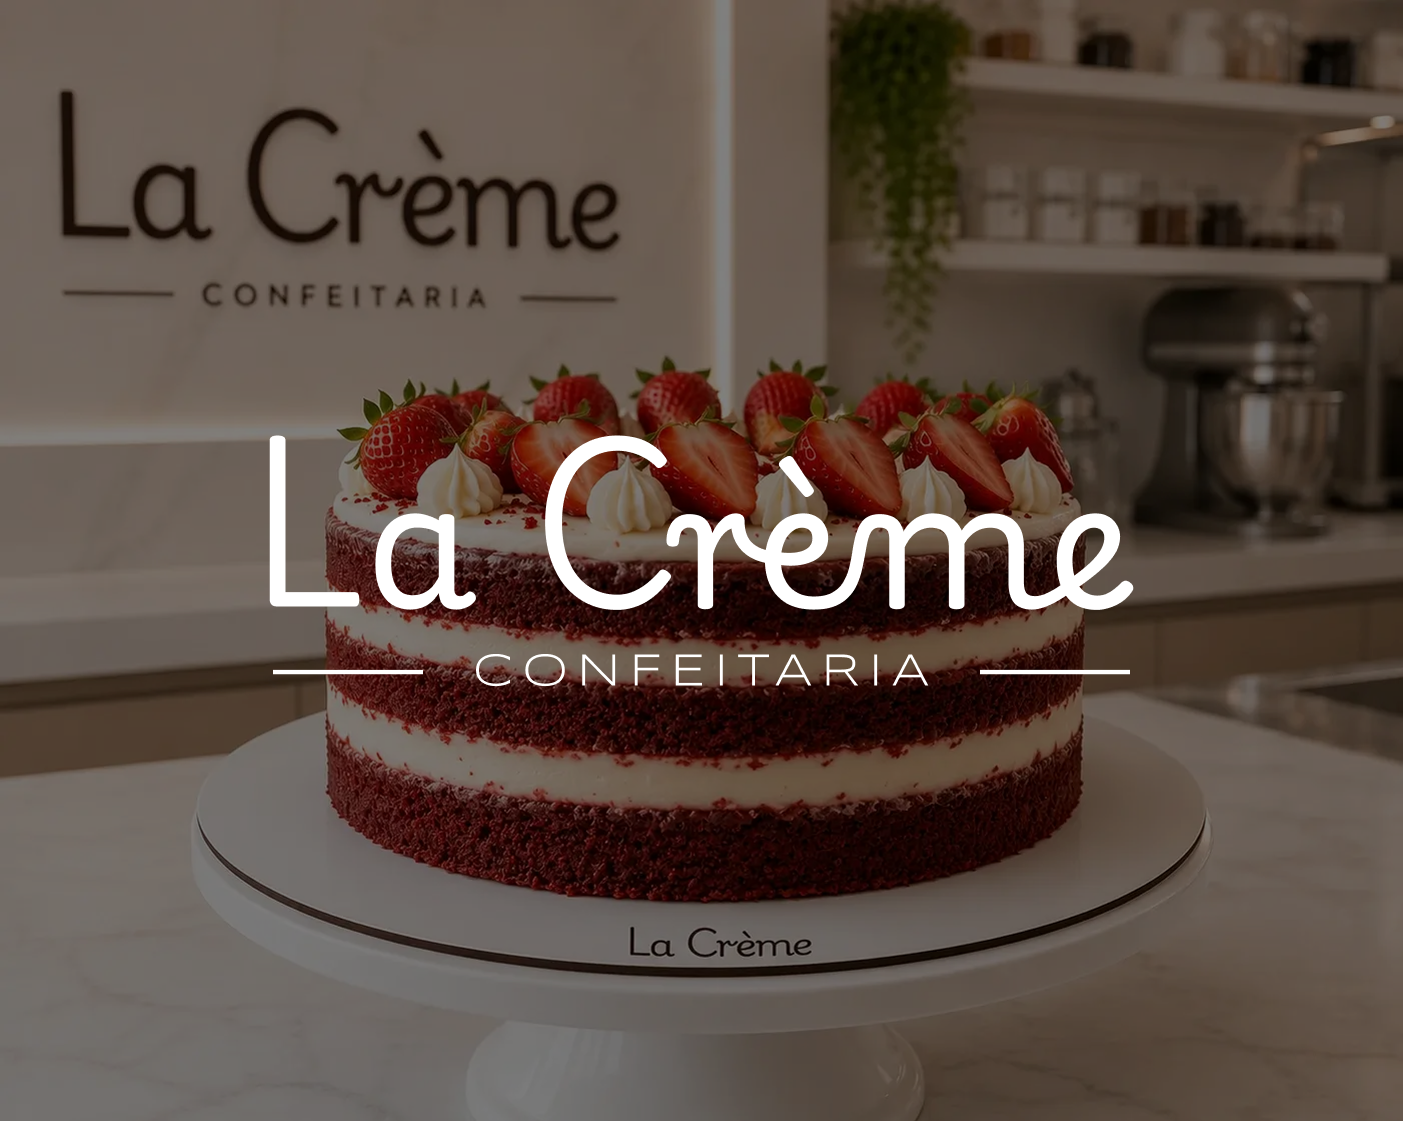
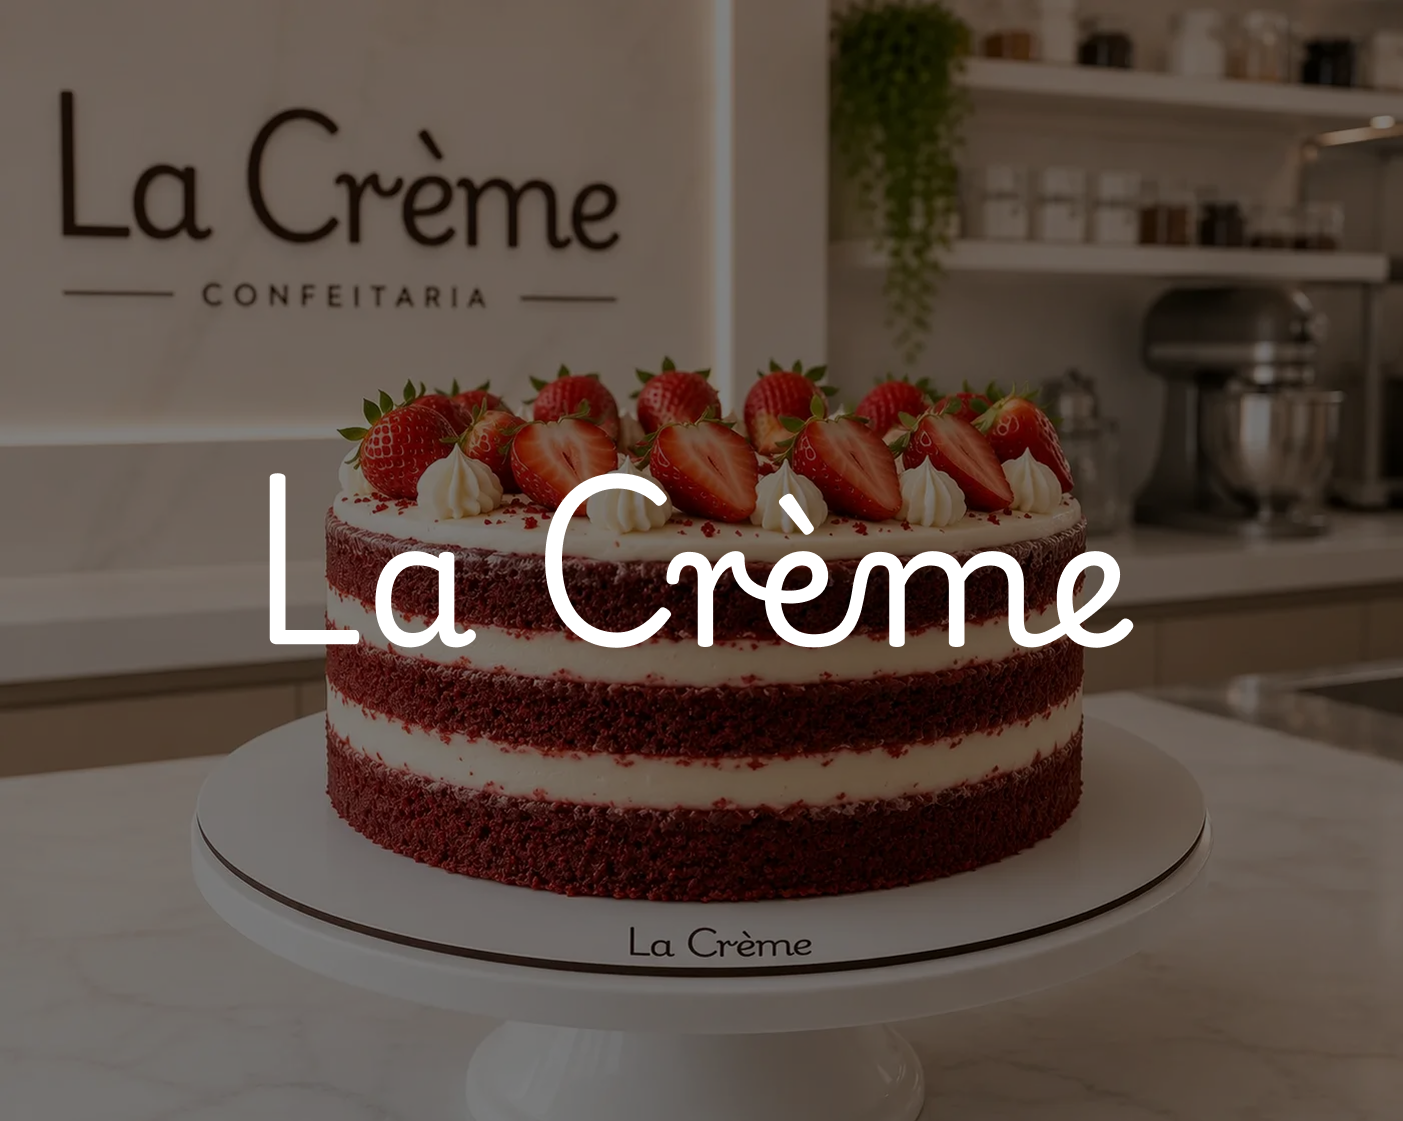
chore: adjustments

Changed region(s): [[0.3371, 0.3747, 0.8275, 0.6244], [0.1839, 0.4371, 0.3371, 0.6244], [0.1839, 0.3747, 0.2145, 0.4371]]

diff --git a/src/components/sections/registry.ts b/src/components/sections/registry.ts
@@ -146,7 +146,7 @@ export const sections: SectionEntry[] = [
     projectType: "Escritorio residencial",
     goal: "Apresentar portfolio, processo e assinatura estetica para projetos autorais.",
     tags: ["Portfolio", "Alto padrao", "Servicos"],
-    visible: false,
+    visible: true,
     component: Landing01FlagshipPhone,
   },
   {
@@ -230,7 +230,7 @@ export const sections: SectionEntry[] = [
     description:
       "Comfort food premium com salgados classicos, visual apetitoso e conveniencia delivery-first.",
     category: "Landing Pages",
-    cardImage: "/images/bites/hero.png",
+    cardImage: "/images/bites/project-cover.png",
     industry: "Gastronomia",
     projectType: "Salgados premium",
     goal: "Transformar classicos fritos em uma experiencia moderna, crocante e desejavel.",